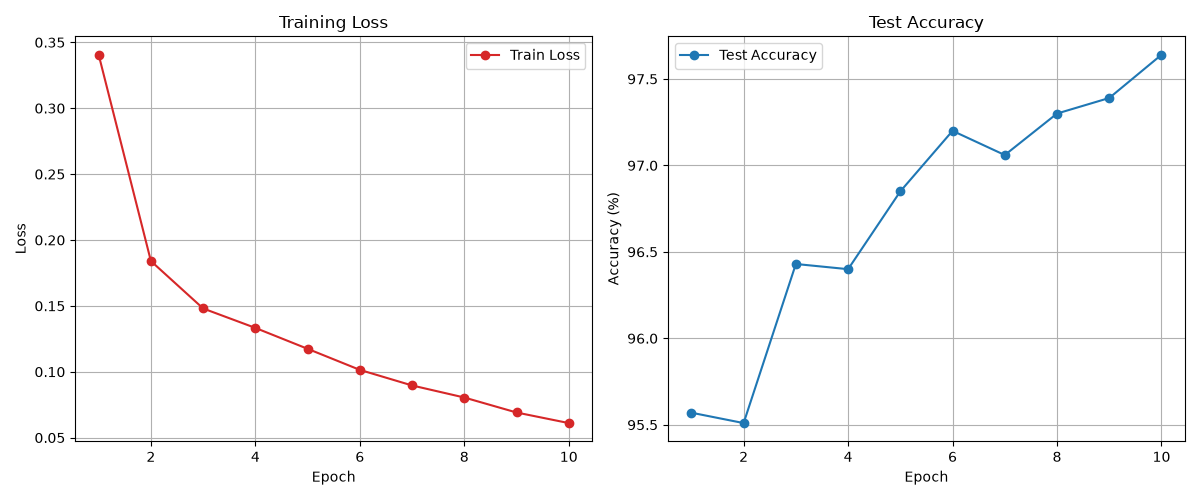
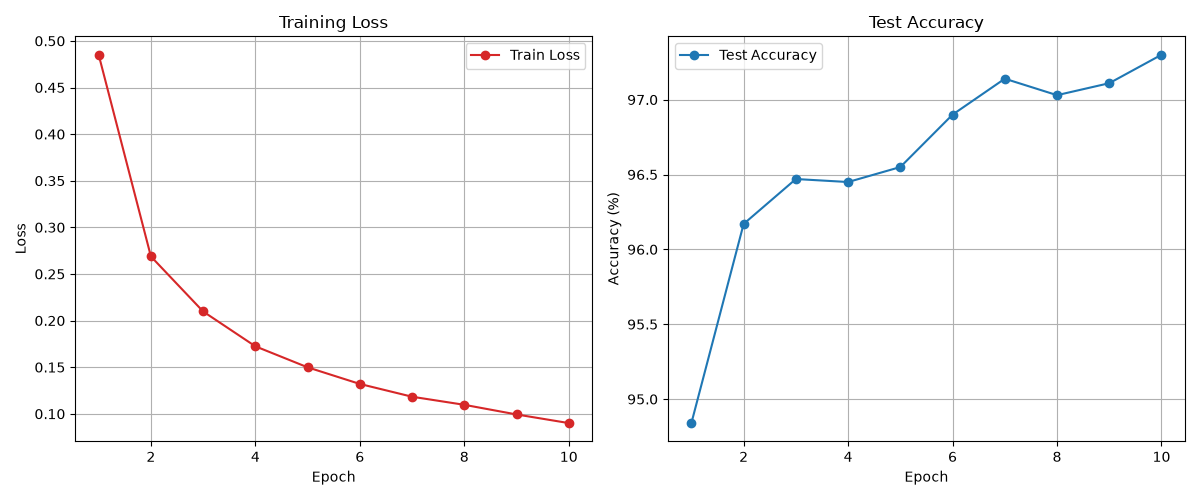
一旦、先生参考バイナリコネクト完成

diff --git a/script/bainarize_connect.py b/script/bainarize_connect.py
@@ -156,7 +156,7 @@ def plot(train_losses, test_accuracies):
 def main():
     epochs = 10
     batch_size = 64
-    learning_rate = 0.003
+    learning_rate = 0.001
 
     device = torch.device('cuda' if torch.cuda.is_available() else 'cpu') # デバイス判定
     print(f"使用デバイス: {device}")
@@ -181,11 +181,10 @@ def main():
         lr=learning_rate
     )
 
-    # 学習率をコサイン関数の波形に沿って徐々に小さくしていく
+    # 学習率をcos関数の波形に沿って徐々に小さくしていく
     scheduler = optim.lr_scheduler.CosineAnnealingLR(optimizer, T_max=epochs)
 
     criterion = nn.CrossEntropyLoss()
-
 
     train_losses = []
     test_accuracies = []
